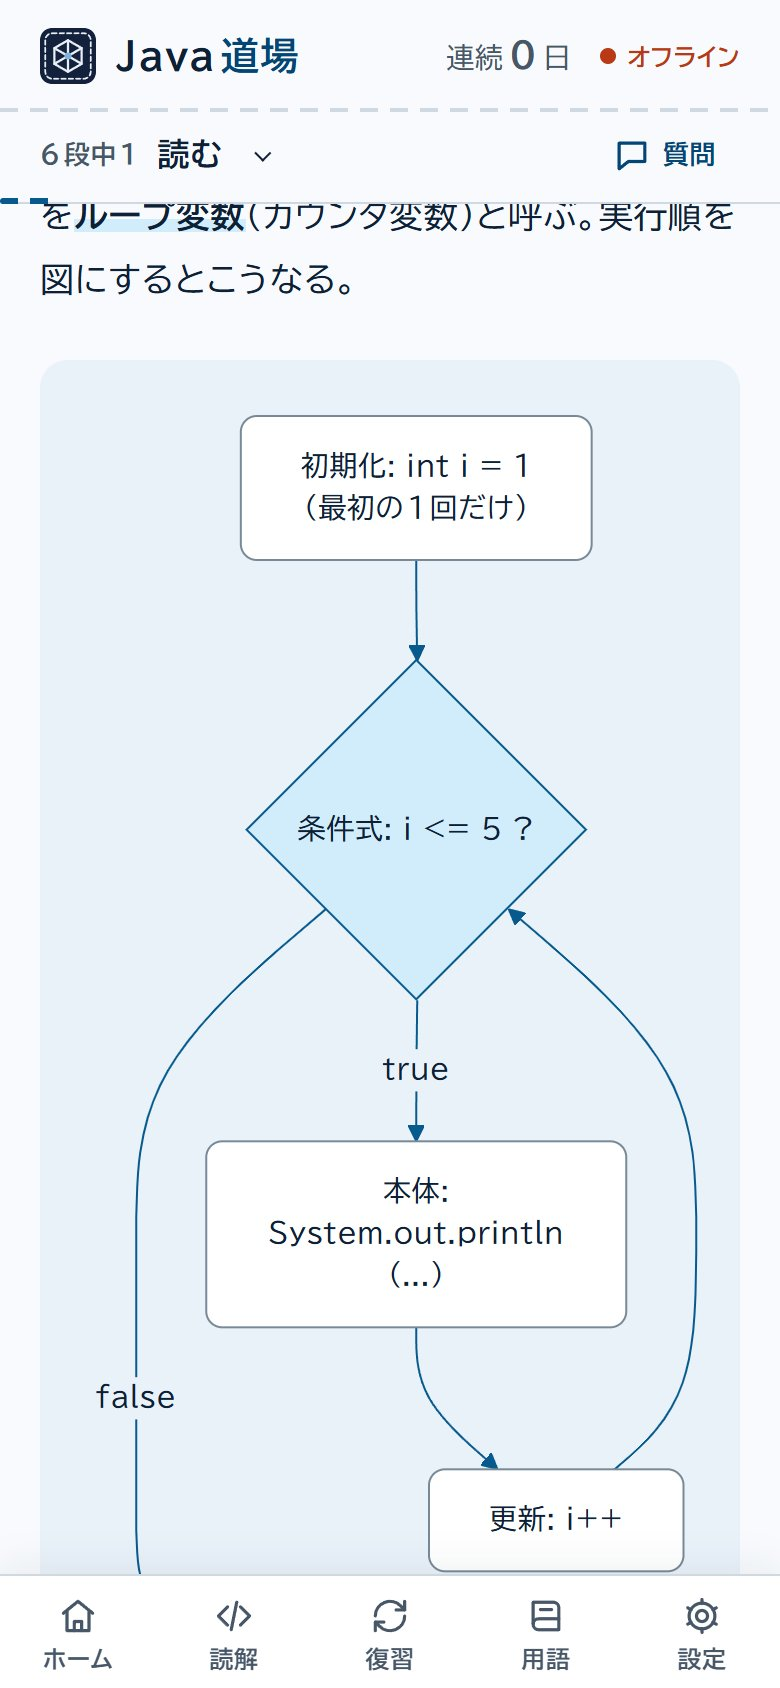
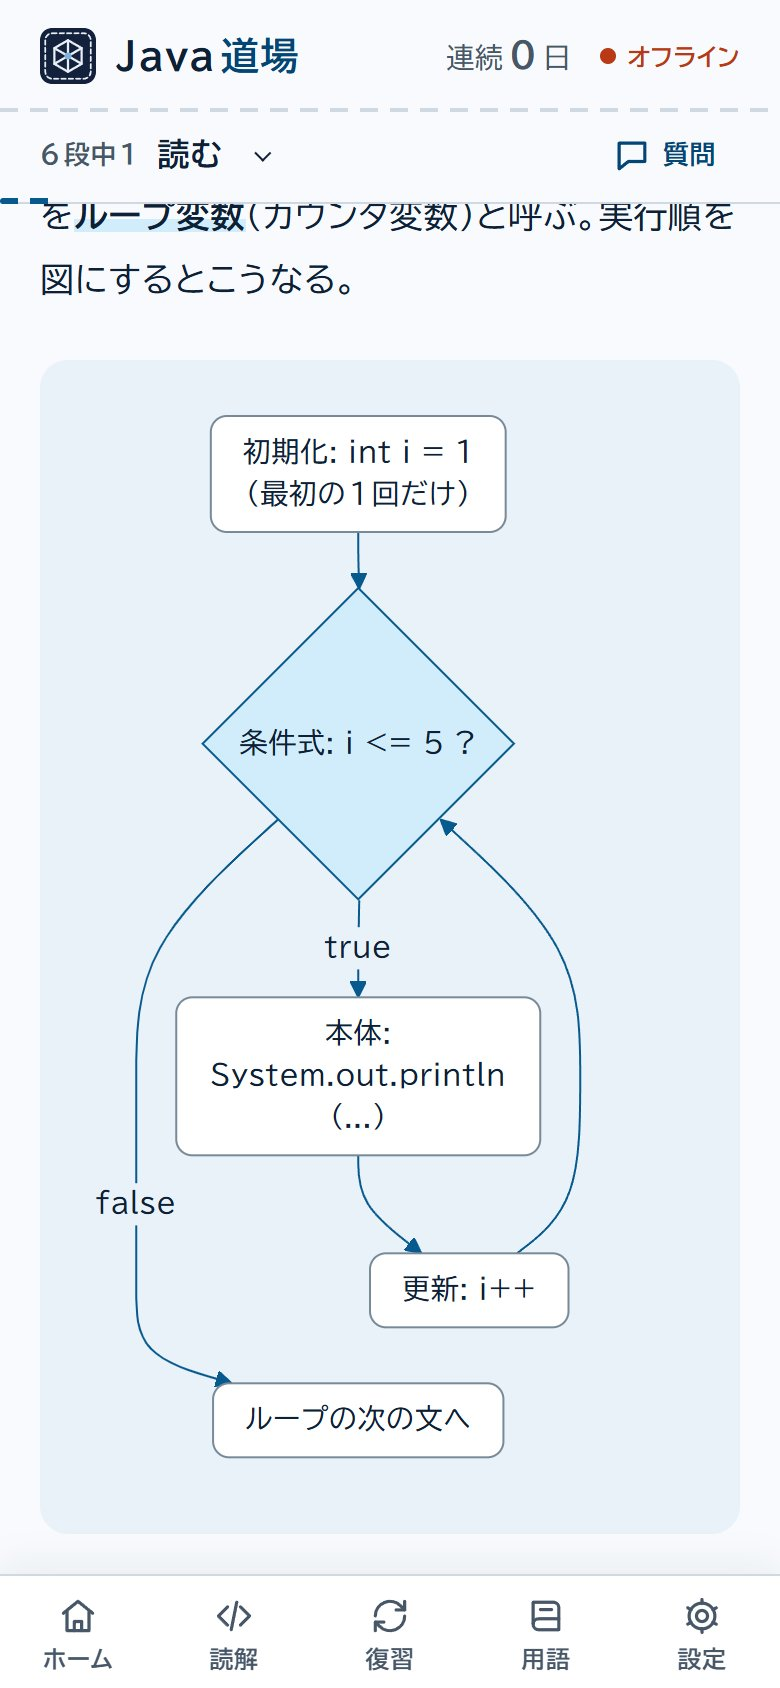
docs: 相互レビュー10回目の点数・指摘・直したこと、11回目の撮影・オフラインの確認を記録し、引き継ぎメモを更新した

diff --git a/docs/design-review.md b/docs/design-review.md
@@ -28,8 +28,10 @@ Claude と Codex が交互にレビューし、Awwwards の 4 項目(Design / Us
 | 7 | Claude | 8.4 | 8.4 | 8.5 | 8.3 | いいえ |
 | 8 | Codex | — | — | — | — | 実行せず(上限の回復待ちの間に 9 回目へ進んだ。回復後は 9 回目を審査) |
 | 8 | Claude | 7.9 | 7.9 | 7.6 | 8.3 | いいえ(前回までの点に引きずられないよう「いまの出来で採点」と強く頼んだ。点が下がったのはそのため) |
-| 9 | Codex | (待ち) | | | | 利用上限の回復(00:58)後に、凍結した 9 回目(68f43e4)を審査 |
+| 9 | Codex | — | — | — | — | 実行せず(上限の回復待ちの間に 10 回目へ進んだ) |
 | 9 | Claude | 8.1 | 8.2 | 7.8 | 8.4 | いいえ |
+| 10 | Codex | (待ち) | | | | 利用上限の回復(00:58)後に、凍結した 10 回目(b590d90)を審査 |
+| 10 | Claude | 8.0 | 8.2 | 7.8 | 8.3 | いいえ |
 
 ## 1 回目(撮影: `docs/screenshots/round1/`、全文: [reviews/round1-codex.md](reviews/round1-codex.md)・[reviews/round1-claude.md](reviews/round1-claude.md))
 
@@ -280,3 +282,26 @@ Claude と Codex が交互にレビューし、Awwwards の 4 項目(Design / Us
 | エラーメッセージ | 解説の中の長いインラインコードは、左に藍の細線の 1 ブロックに |
 | 動き | 縫い進む線は目の切れ目(15px)で止め、160ms の ease-out。深まったときはメタ行の色見本も染み込ませる |
 | 形 | セレクトは 8px、難しさは「読解 n」と同じ行、「質問」は枠を外した |
+
+## 10 回目(撮影: `docs/screenshots/round10/`、全文: [reviews/round10-claude.md](reviews/round10-claude.md))
+
+### 主な指摘
+- スマホの読解カードでコードが割れる(行末の ` {` だけが落ちる、`//` コメントが 2 行に割れる)
+- ループの図が縦に 1.5 画面分。暗い表示の褐がくすみ、到達点がいちばん目立たない
+- 教材の本文の数字が全角に見える。名札が縦書き(「縦書きは部の札だけ」と食い違う)
+- PC の仕事のコードでコード 13.5px・説明 15px と主従が逆。採点後のいちばん強い記号が誤答の朱い丸
+- 染めの段の言い方が 3 通り。PC の地図のマスが小さく、「まだ」の印が欠けた値に見える。PC の索引の線がはみ出す
+
+### 直したこと(11 回目の前)
+| 指摘 | 直し方 |
+|---|---|
+| コードの割れ | `//` コメントの中は折り返しの候補を入れず空白でも切らない。行末の「 {」は前の語とつなぐ。400px 以下は行番号の列と右の余白を詰め、コード 13px(390px で 1 行 38 字ほど)(スマホ・PC) |
+| 図の高さ | 760px 以下はノードの間隔を詰めた(nodeSpacing 20・rankSpacing 28)。ループの図は 1 画面に収まった |
+| 褐 | 暗い表示の褐だけ四角の目を藍白に(面と 5.2:1) |
+| 全角の数字 | 教材の元データを調べたところ全角数字は 0 件(本文も半角)。BIZ UDPGothic の数字が広く見えるための誤認として、直していない |
+| 名札 | 横書きの 12px の札を吹き出しの上に。縦書きは部の札だけに戻した |
+| コードと説明 | 説明はコードの注: スマホ 13px・PC 14px で色を 1 段下げ、PC のコードは 15px |
+| 採点のラジオ | 正解は藍の丸にレ点、誤答は朱の枠に ×(塗らない)。「✓ 正解」「× あなたの答え」は 14px |
+| 段の言い方 | 1 行の所は「縹(クイズ合格)」にそろえた(スマホのメタ行・PC のメタ行) |
+| PC の地図・まだ | マス 22px。一覧の「まだ」は刺し子 2 目の短い線 |
+| 索引の線 | PC は本文の左右の端にそろえた |

diff --git a/docs/reviews/round10-claude.md b/docs/reviews/round10-claude.md
@@ -1,0 +1,23 @@
+# 10 回目の審査(Claude・作業の経緯を知らないサブエージェント)
+
+対象: `docs/screenshots/round10/`(16 枚)と `docs/screenshots/offline/`、ソースと `docs/design.md`。凍結したコミット b590d90 で審査した。
+
+## 点数
+Design: 8.0 / Usability: 8.2 / Creativity: 7.8 / Content: 8.3
+
+## 良いところ(3 つまで)
+- 染まりの 5 段が一つの仕組みとして通っている(ふりがな付きの名前と刺し子の目の形、ヒーローの「いま/次」・地図・凡例・メタ行・採点後の案内まで同じ言葉と記号)。色は藍と朱だけに絞れ、「保存済み」の点も藍に。9 回目の指摘はおおむね直っている。
+- 「仕事のコード」の組み方(説明のある行の番号を藍の札、説明をその行の直後に)と題材が読者の実務に合う。クイズの正誤に色以外の手がかり、長いエラーメッセージは左線の 1 ブロック。教材としての誠実さが高い。
+- オフラインは手順で裏付けられている。PC の用語集は 1 列の辞書の組みになり、読む順の往復がなくなった。
+
+## 直すべきところ(重要な順)
+1. **スマホの読解カードでコードが割れる** — 1 行 35 字ほどしか入らず、行末の ` {` だけが次の行に落ちる。読解「コメントと出力」ではコメントが 2 行に割れ、答えに影響しうる。直し方: 行末の ` {`・`);` は前とつなげる、`//` コメントの中には折り返しの候補を入れない、400px 以下では行番号の列と文字を少し詰める、全 171 問を数えるテスト。
+2. **スマホのループの図が縦に長すぎる** — 1.5 画面分を超え、終了ノードが見えない。直し方: 760px 以下で rankSpacing/nodeSpacing を詰め、1 画面に収める。
+3. **暗い表示の褐がくすんで、到達点がいちばん目立たない** — 四角の目と面のコントラストも低い。直し方: 暗い表示の褐だけ四角の目を藍白にし、3:1 以上に。
+4. **教材の本文の数字が全角、画面とコードは半角** — 「候補が２つ」と「found 2」が並ぶ。直し方: 本文の全角数字を半角にそろえ、テストと決まりを足す。
+5. **名札が縦書きで、「縦書きは部の札だけ」と食い違う** — PC で 40×64px の縦長の札がしおりかボタンに見える。直し方: 名札は横書きの小さな札に。
+6. **PC の仕事のコードで、コード 13.5px・説明 15px と主従が逆** — 直し方: コード 15px、説明 14px で色を 1 段下げる。
+7. **採点直後、いちばん強い記号が誤答の朱い丸** — 正解のラジオは空のまま。直し方: 正解の位置に藍のチェック、誤答は塗りをやめて朱の枠に×、「✓ 正解」は 14px。
+8. **染めの段の言い方が 3 通り** — 「縹(クイズ合格)」「縹・クイズ合格」と凡例の二行。直し方: 1 行の所は「縹(クイズ合格)」にそろえる。
+9. **PC のダッシュボードの地図のマスが小さく、「まだ」の印が欠けた値の記号に見える** — 直し方: マスを大きく、「まだ」は刺し子 2 目分の短い線に。
+10. **PC の用語集の索引の線が本文の左右の端からはみ出す** — 直し方: 本文と同じ入れ物の幅にそろえる。
